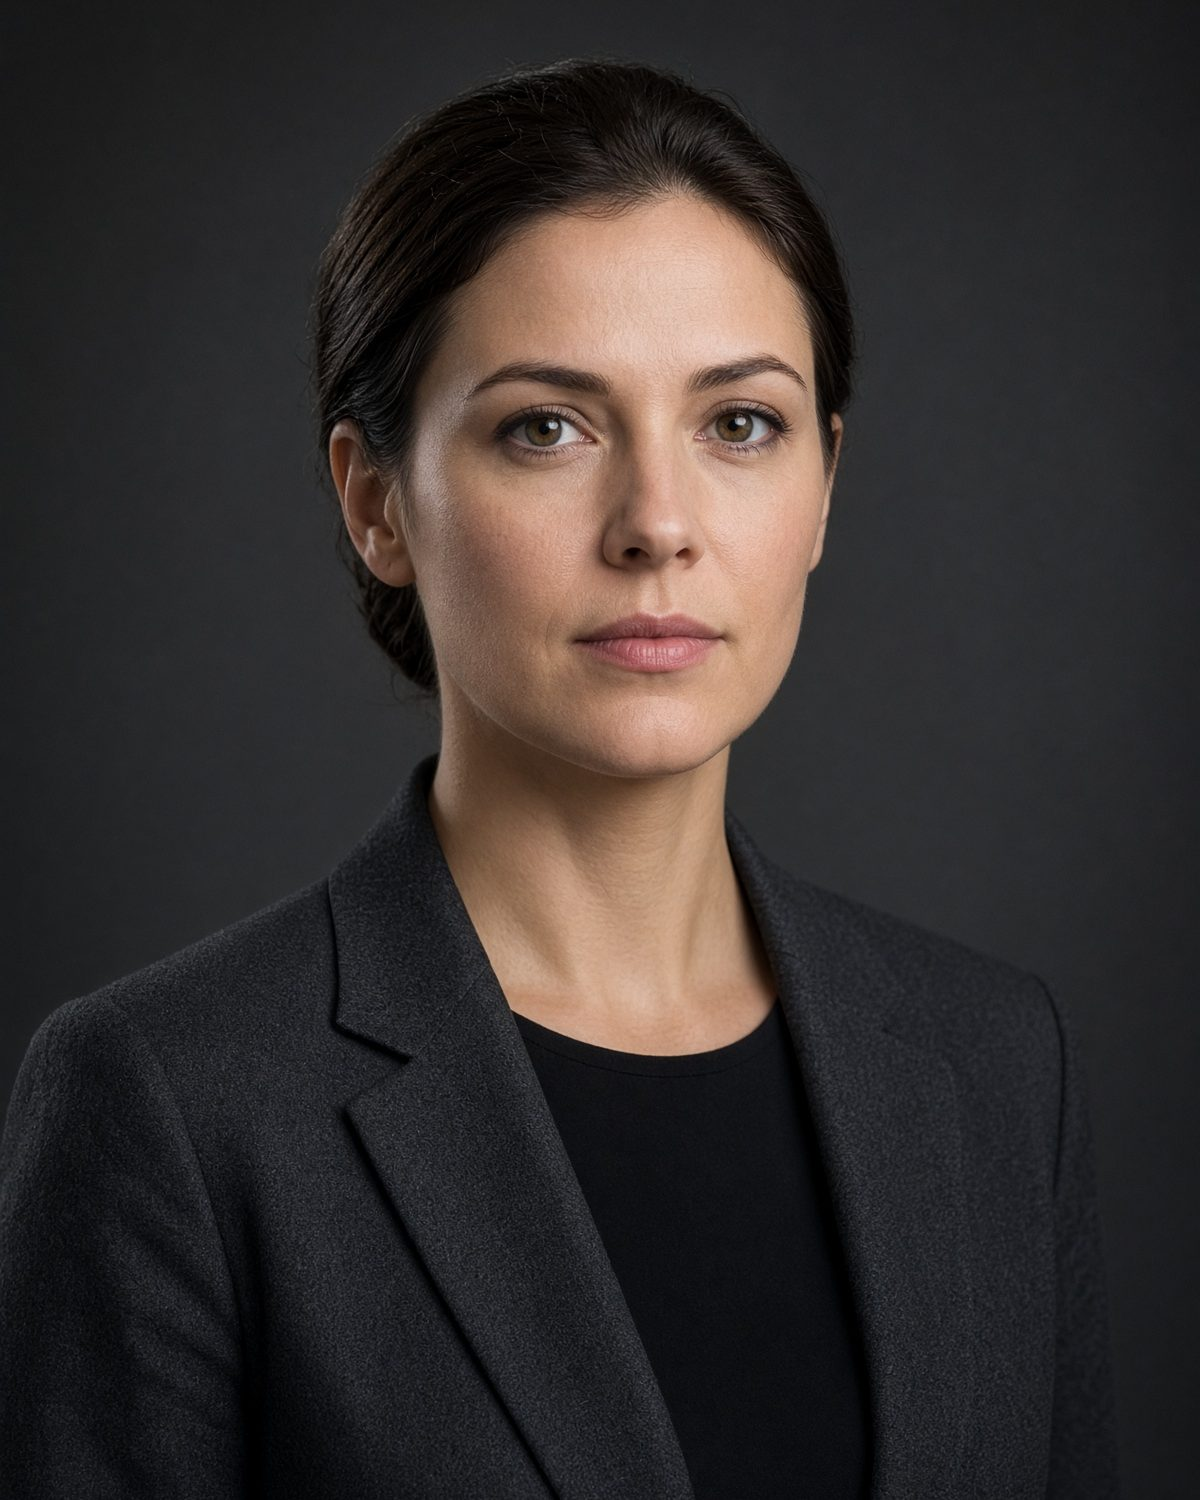
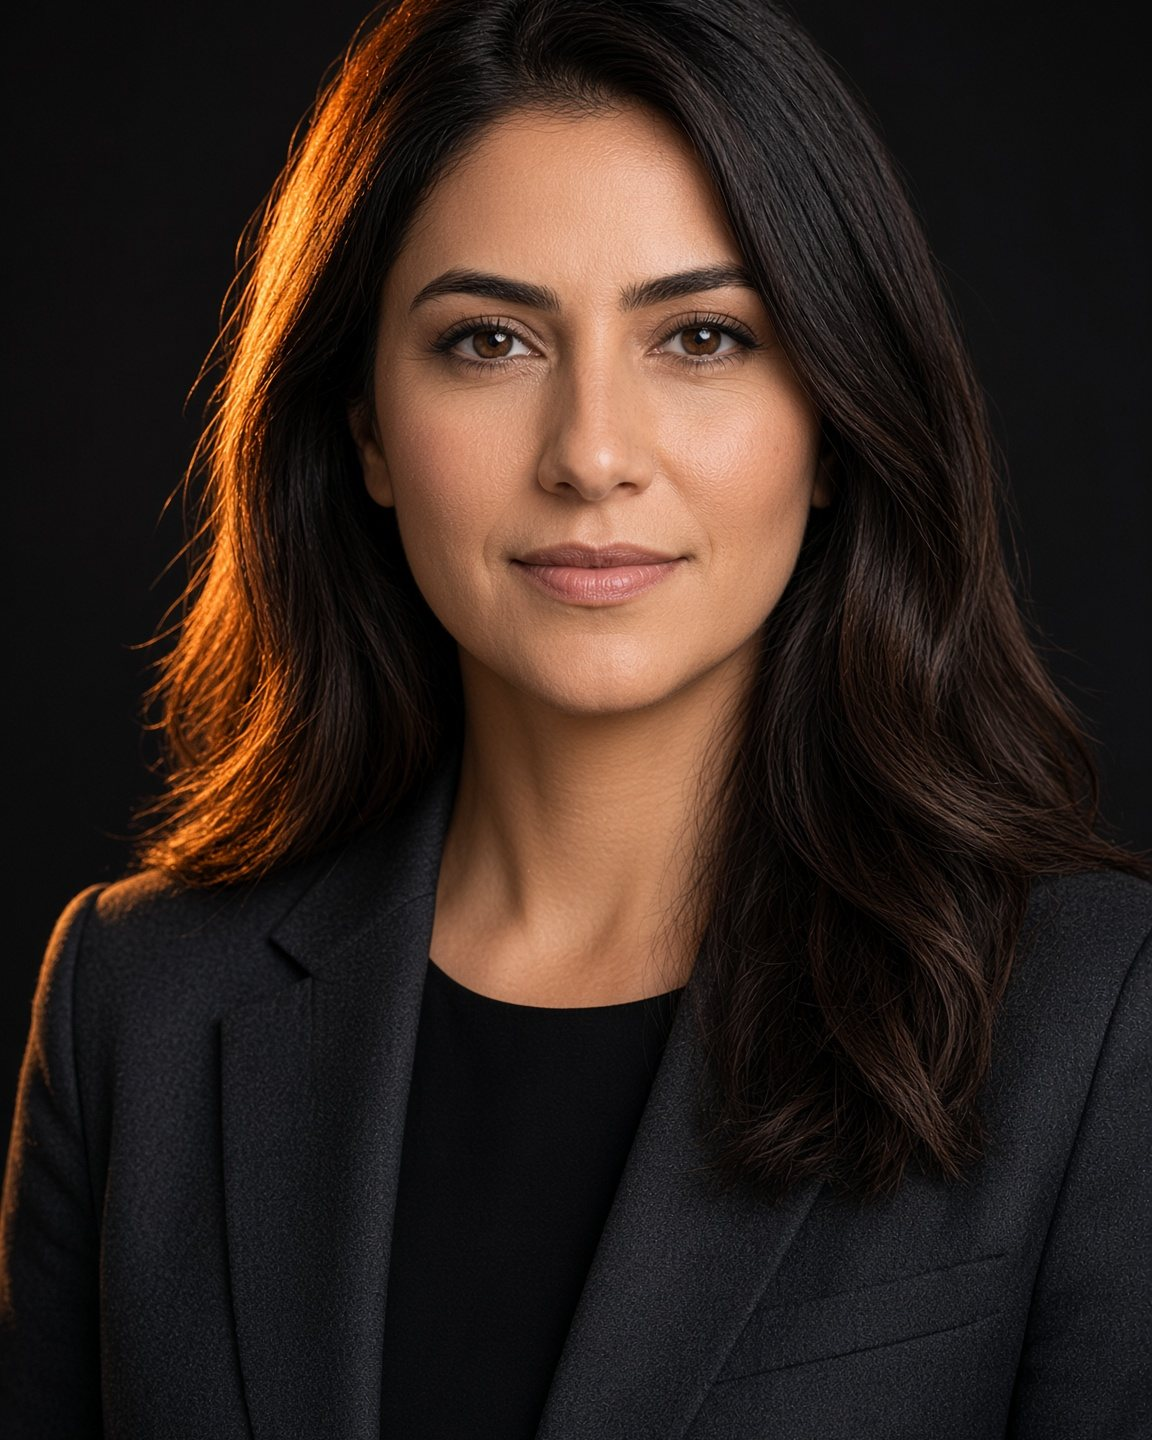
fix: show the existing team again, keep Klára beside them
An added active row was the only one left on the page. Restore portrait rows and match her photo to that studio set.

diff --git a/src/lib/vanguard/sheet-backend.ts b/src/lib/vanguard/sheet-backend.ts
@@ -889,25 +889,42 @@ async function requireAdmin(userId: string) {
   return person;
 }
 
+function rowCell(row: SheetRow, names: string[]) {
+  const folded = new Map(Object.entries(row).map(([key, value]) => [key.replace(/[\s_]/g, "").toLowerCase(), value]));
+  for (const name of names) {
+    const value = String(folded.get(name.replace(/[\s_]/g, "").toLowerCase()) ?? "").trim();
+    if (value) return value;
+  }
+  return "";
+}
+
 function teamName(row: SheetRow) {
-  return (row.fullName || row.name || "").trim();
+  return rowCell(row, ["fullName", "name"]);
 }
 
 function teamHidden(row: SheetRow) {
-  const flag = (row.isActive || row.active || "").trim().toLowerCase();
-  return flag === "false" || flag === "0";
+  const flag = rowCell(row, ["isActive", "active"]).toLowerCase();
+  return flag === "false" || flag === "0" || flag === "no";
 }
 
 function teamPerson(row: SheetRow) {
   return {
     id: row.id || teamName(row),
     fullName: teamName(row),
-    position: (row.position || row.role || "").trim(),
-    phone: (row.contactPhone || row.phone || "").trim(),
-    photoData: siteFileUrl("team", row.id, row.photoUrl || row.photo || ""),
-    sortOrder: Number(row.order) || 0,
+    position: rowCell(row, ["position", "role"]),
+    phone: rowCell(row, ["contactPhone", "phone"]),
+    photoData: siteFileUrl("team", row.id, rowCell(row, ["photoUrl", "photo"])),
+    sortOrder: Number(rowCell(row, ["order", "sort"]) || row.order) || 0,
     active: !teamHidden(row),
   };
+}
+
+async function restoreTeamPortraits(rows: SheetRow[]) {
+  const hidden = rows.filter((row) => row.id && teamHidden(row) && rowCell(row, ["photoUrl", "photo"]));
+  if (!hidden.length) return rows;
+  for (const row of hidden) await updateSheetRowById("Team", row.id, { isActive: "true" });
+  invalidateSheet("Team");
+  return readSheetRows("Team");
 }
 
 function plainName(value: string) {
@@ -934,7 +951,7 @@ async function ensureDirectorRow(rows: SheetRow[]) {
     invalidateSheet("Team");
     return readSheetRows("Team");
   }
-  if (found.id && !(found.photoUrl || found.photo || "").trim()) {
+  if (found.id && !rowCell(found, ["photoUrl", "photo"])) {
     await updateSheetRowById("Team", found.id, { photoUrl: photo });
     invalidateSheet("Team");
     return readSheetRows("Team");
@@ -943,7 +960,8 @@ async function ensureDirectorRow(rows: SheetRow[]) {
 }
 
 async function teamRowsForSite(rows: SheetRow[]) {
-  let current = await ensureDirectorRow(rows);
+  let current = await restoreTeamPortraits(rows);
+  current = await ensureDirectorRow(current);
   if (!current.some((row) => teamName(row))) {
     for (const member of TEAM) {
       if (current.some((row) => row.id === member.id)) continue;
@@ -962,9 +980,12 @@ async function teamRowsForSite(rows: SheetRow[]) {
     invalidateSheet("Team");
     current = await readSheetRows("Team");
   }
-  const people = current.filter((row) => teamName(row)).map(teamPerson);
-  const visible = people.filter((person) => person.active);
-  return (visible.length ? visible : people).sort((a, b) => a.sortOrder - b.sortOrder || a.fullName.localeCompare(b.fullName));
+  const people = current.filter((row) => row.id && (teamName(row) || rowCell(row, ["photoUrl", "photo"]))).map(teamPerson);
+  const originals = people.filter((person) => person.id !== "TM-DIR");
+  const visibleOriginals = originals.filter((person) => person.active);
+  const base = visibleOriginals.length ? visibleOriginals : originals;
+  const added = people.filter((person) => person.id === "TM-DIR" && !base.some((item) => item.id === person.id));
+  return [...base, ...added].sort((a, b) => a.sortOrder - b.sortOrder || a.fullName.localeCompare(b.fullName));
 }
 
 function present(app: ReturnType<typeof appFrom>) {
